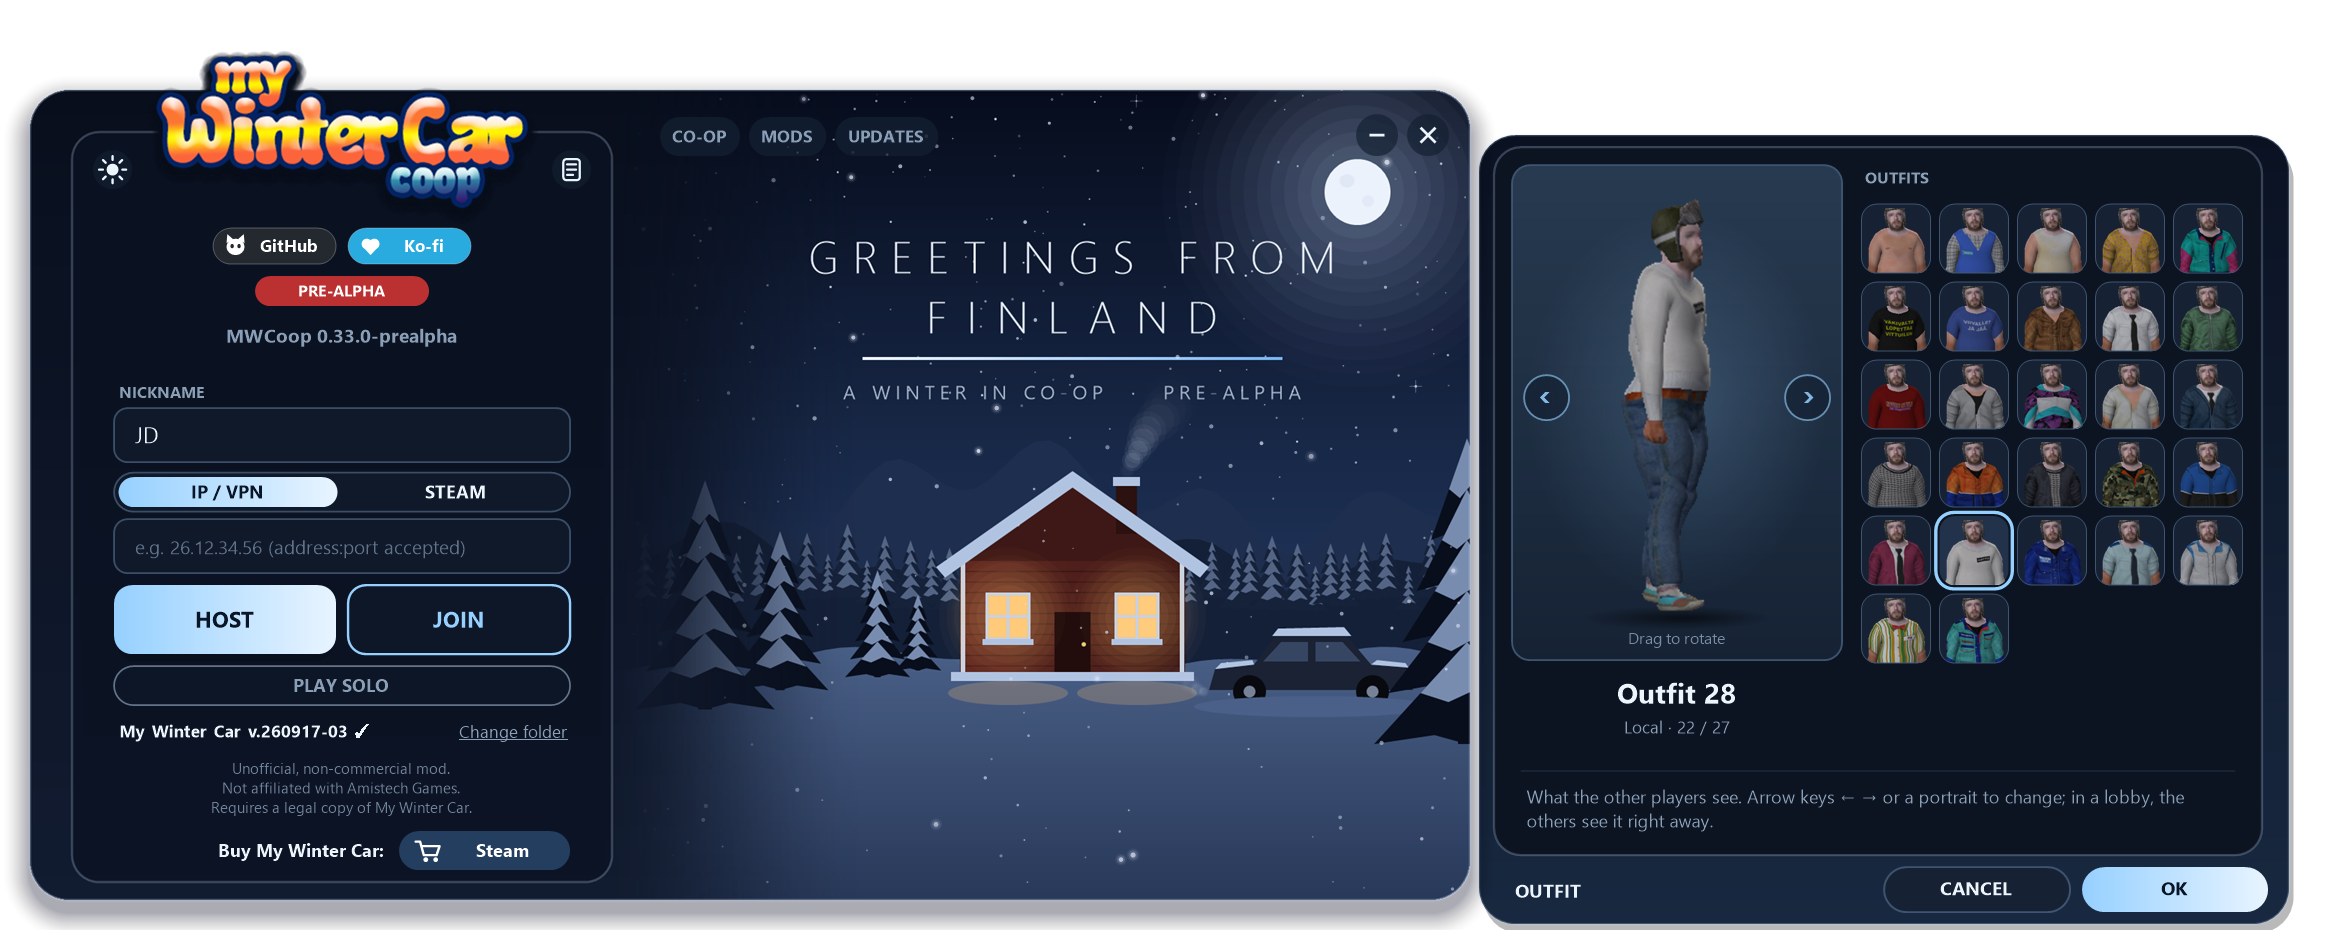
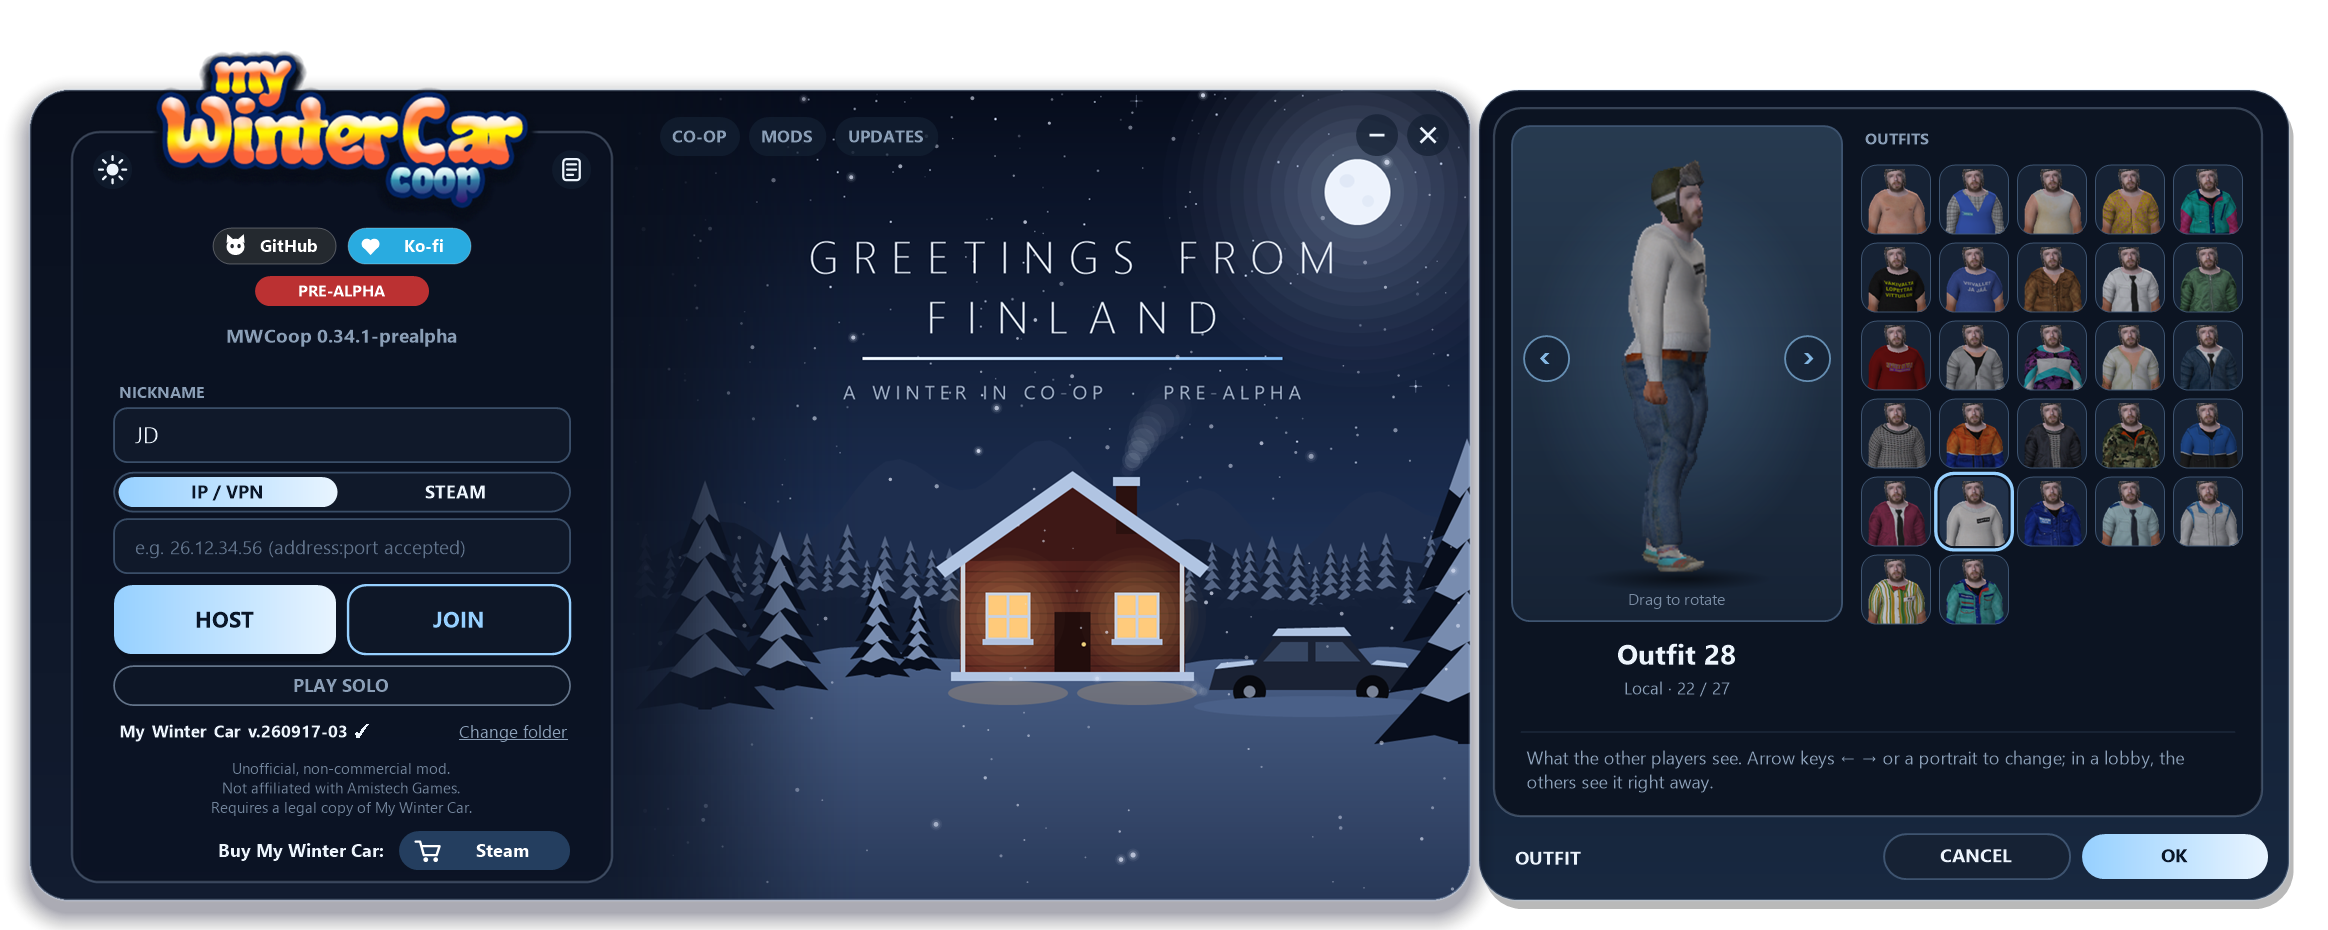
Volet aligne sur la fenetre du lanceur (0.34.2)
Retour de JD : le volet (90-616) depassait en bas et commencait plus bas que la carte du lanceur
(60-600). Carte 986,60 540x540, arrondi 26 comme la fenetre ; contenu remonte a 72, boutons a 556.

Changed region(s): [[0.6186, 0.0935, 0.9897, 0.7796], [0.6186, 0.8108, 0.9897, 1.0]]

diff --git a/src/MWCoop/Version.cs b/src/MWCoop/Version.cs
@@ -3,6 +3,6 @@
     public static class Version
     {
         // Version du mod ; dist\make-release.ps1 refuse de publier une autre version que celle-ci.
-        public const string Text = "0.34.1-prealpha";
+        public const string Text = "0.34.2-prealpha";
     }
 }
